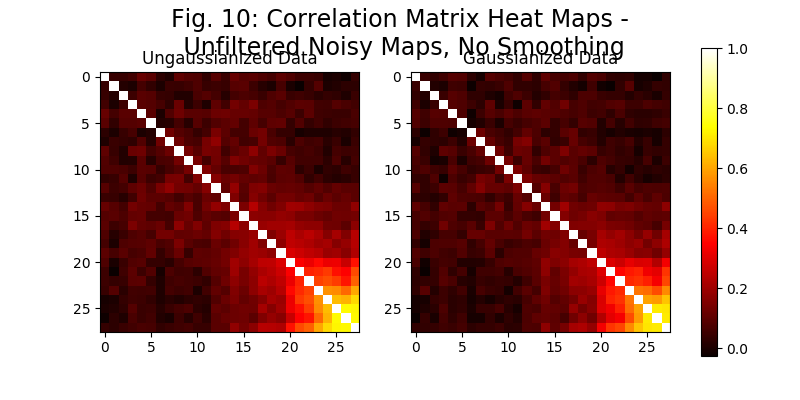
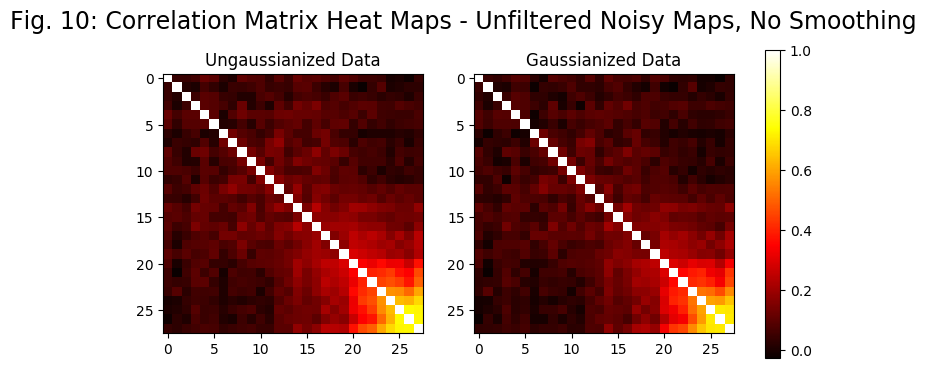
format

diff --git a/Parallel Gaussianization/Noisy Maps/gauss_SNR_nois.py b/Parallel Gaussianization/Noisy Maps/gauss_SNR_nois.py
@@ -174,7 +174,7 @@ correlgauss = corr_mat(covargauss)
 fig2, (ax1, ax2) = plt.subplots(nrows=1, ncols=2, figsize = (8, 4))
 axlist = [ax1, ax2]
 
-fig2.suptitle("Fig. 10: Correlation Matrix Heat Maps -\n Unfiltered Noisy Maps, No Smoothing", fontsize = "17")
+fig2.suptitle("Fig. 10: Correlation Matrix Heat Maps - Unfiltered Noisy Maps, No Smoothing", fontsize = "17")
 first = ax1.imshow(np.array(correl), cmap = 'hot', vmin = -0.025, vmax = 1.0)
 ax1.set_title('Ungaussianized Data', fontsize = "12")
 
@@ -184,7 +184,7 @@ ax2.set_title('Gaussianized Data', fontsize = "12")
 
 fig2.colorbar(first, ax=axlist, fraction=0.03)
 #plt.subplots_adjust(top = 0.2)
-fig2.savefig("corrmat_allnoisy.png")
+fig2.savefig("corrmat_allnoisy.png", bbox_inches = "tight")
 
 
 
